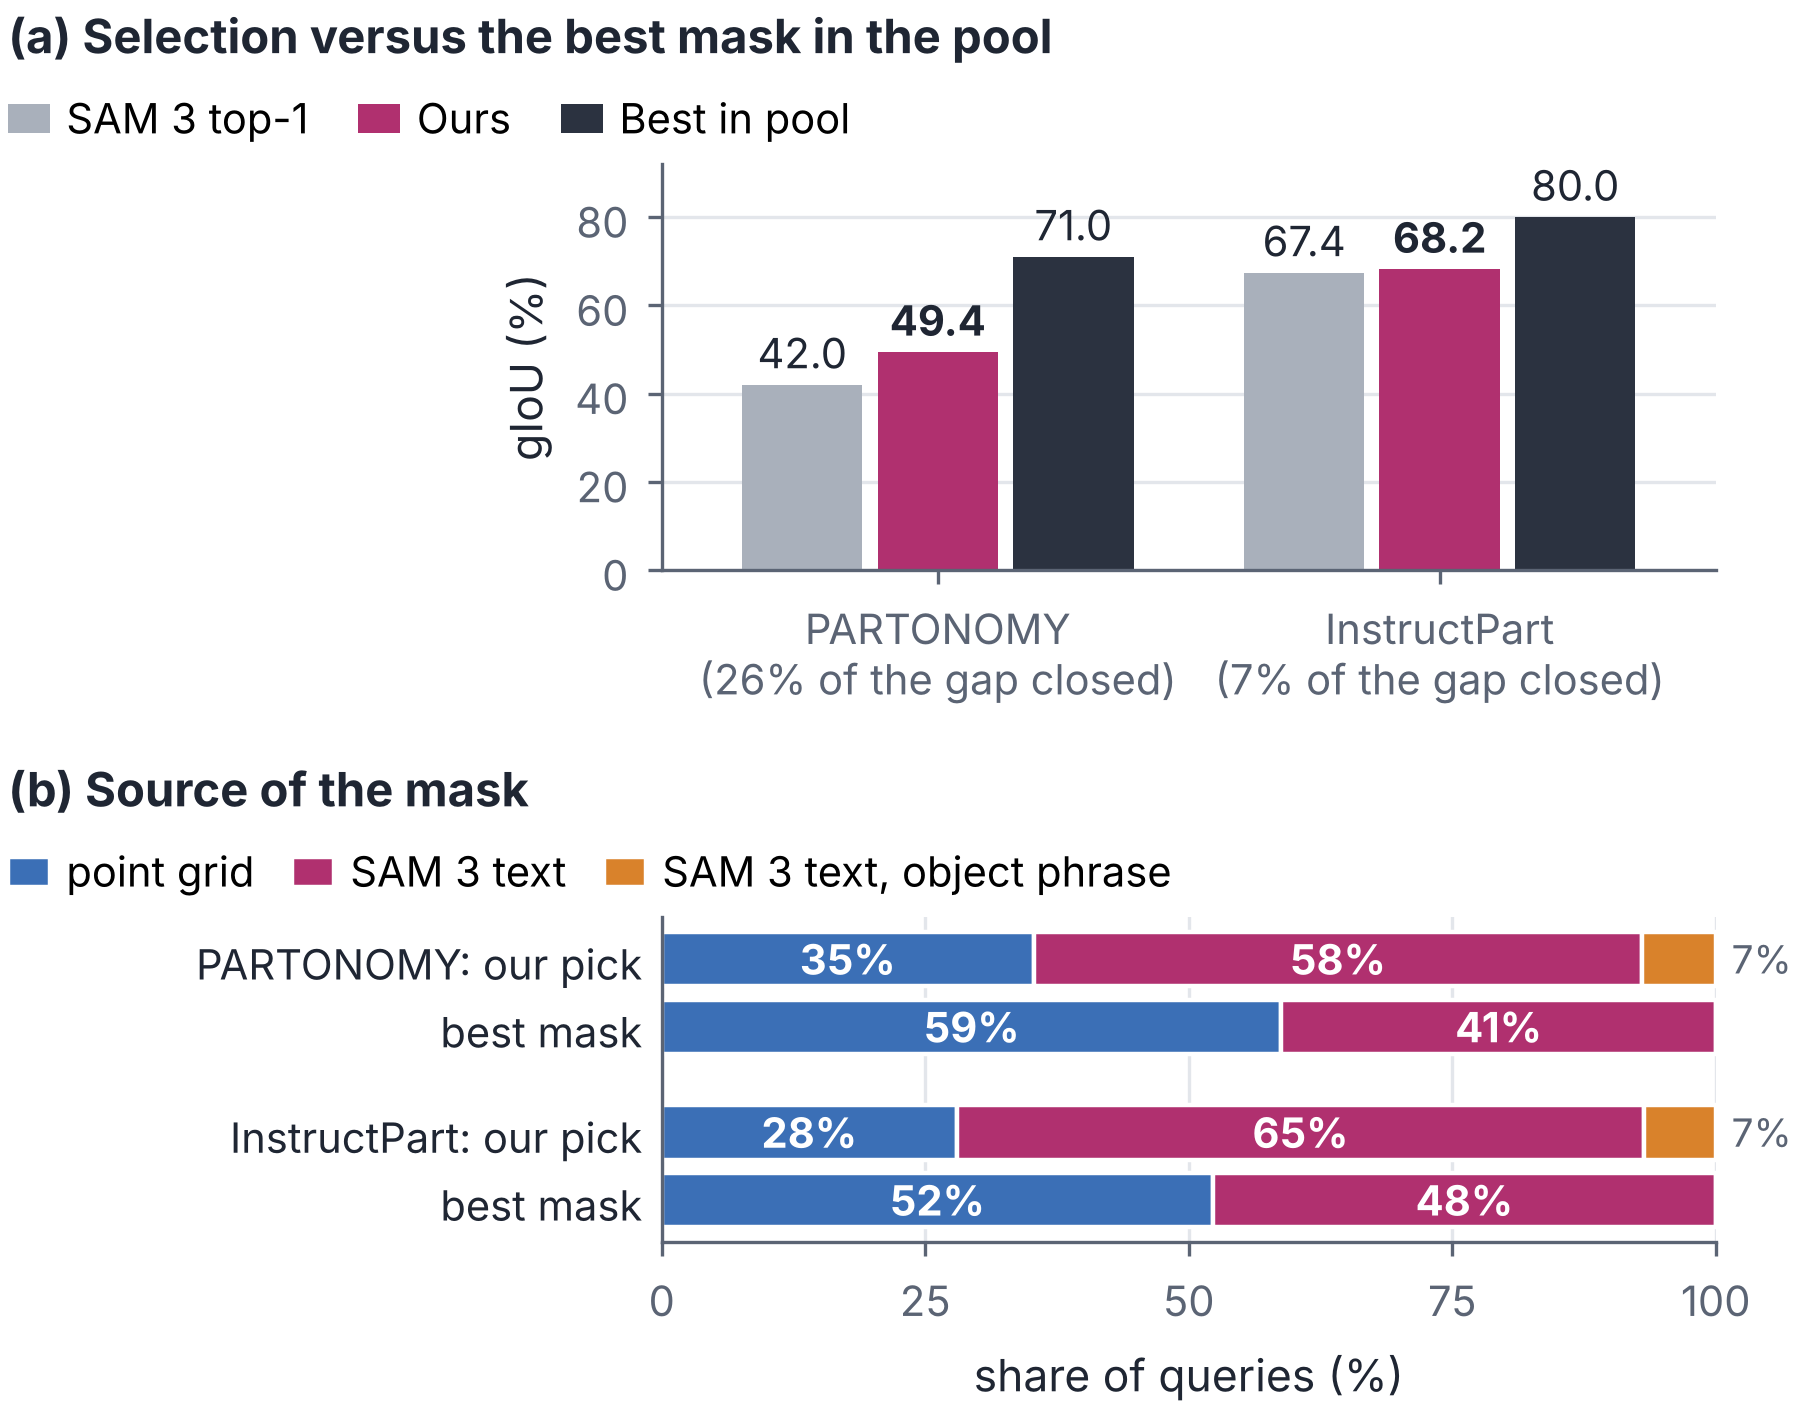
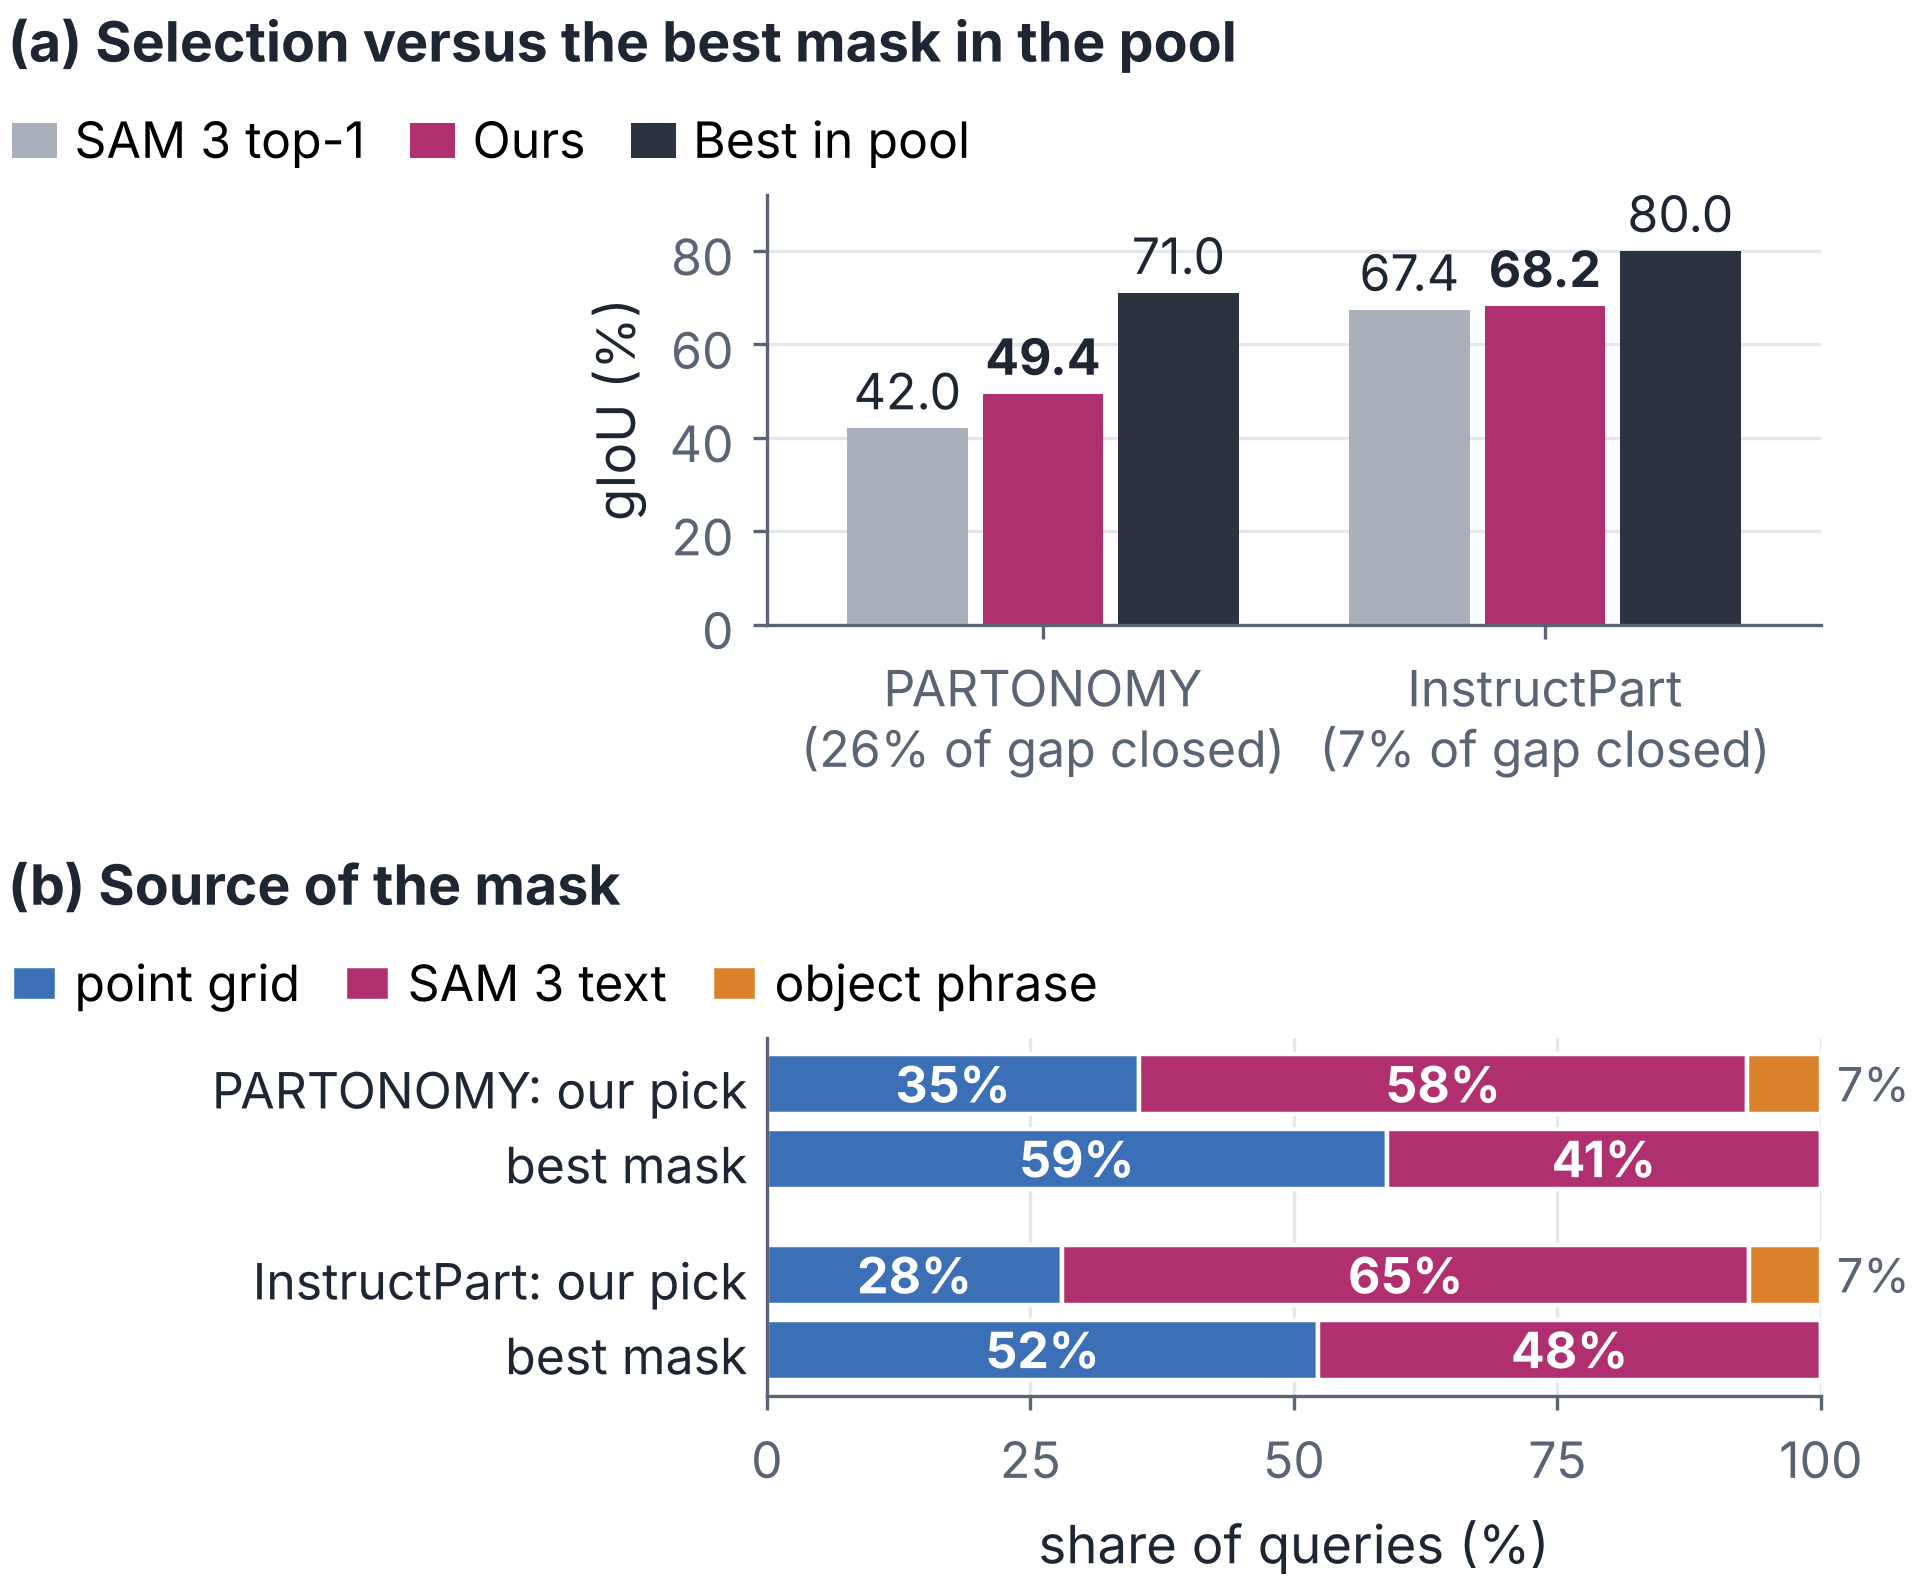
Coverage figure: larger type
Claude-Session: https://claude.ai/code/session_01YaCuPt7rFYHrZJ7SSkENwZ

diff --git a/paper/figures/make_coverage.py b/paper/figures/make_coverage.py
@@ -16,7 +16,7 @@ from matplotlib import font_manager  # noqa: E402
 HERE = Path(__file__).resolve().parent
 for f in ("Inter-Regular.otf", "Inter-SemiBold.otf", "Inter-Bold.otf"):
     font_manager.fontManager.addfont(f"/usr/share/fonts/opentype/inter/{f}")
-plt.rcParams.update({"font.family": "Inter", "font.size": 8, "axes.linewidth": 0.6, "pdf.fonttype": 42})
+plt.rcParams.update({"font.family": "Inter", "font.size": 9.5, "axes.linewidth": 0.6, "pdf.fonttype": 42})
 
 INK, MUTED, GRID = "#1f2633", "#5b6474", "#e3e6eb"
 GREY, PINK, BLUE, ORANGE, DARK = "#a9b0bb", "#b0306f", "#3b6fb6", "#d9822b", "#2b3240"
@@ -32,52 +32,52 @@ def style(ax):
         ax.spines[s].set_visible(False)
     ax.spines["left"].set_color(MUTED)
     ax.spines["bottom"].set_color(MUTED)
-    ax.tick_params(colors=MUTED, length=2.5, width=0.6, labelsize=7.5)
+    ax.tick_params(colors=MUTED, length=2.5, width=0.6, labelsize=9)
     ax.yaxis.grid(True, color=GRID, linewidth=0.6)
     ax.set_axisbelow(True)
 
 
 def main() -> None:
-    fig, (a, b) = plt.subplots(2, 1, figsize=(3.4, 3.5), gridspec_kw={"height_ratios": [1.25, 1], "hspace": 0.95})
+    fig, (a, b) = plt.subplots(2, 1, figsize=(3.4, 3.9), gridspec_kw={"height_ratios": [1.2, 1], "hspace": 1.05})
     # (a) grouped bars
     w = 0.24
     for k, (name, col) in enumerate(zip(GIOU, (GREY, PINK, DARK))):
         xs = [i + (k - 1) * (w + 0.03) for i in range(2)]
         bars = a.bar(xs, GIOU[name], w, color=col, label=name, linewidth=0)
         for r, v in zip(bars, GIOU[name]):
-            a.text(r.get_x() + r.get_width() / 2, v + 1.5, f"{v:.1f}", ha="center", va="bottom", fontsize=7.5,
+            a.text(r.get_x() + r.get_width() / 2, v + 1.5, f"{v:.1f}", ha="center", va="bottom", fontsize=9,
                    color=INK, fontweight="bold" if name == "Ours" else "normal")
-    a.set_xticks(range(2), [f"{n}\n({g}% of the gap closed)" for n, g in zip(BENCH, GAP)])
+    a.set_xticks(range(2), [f"{n}\n({g}% of gap closed)" for n, g in zip(BENCH, GAP)])
     a.set_xlim(-0.55, 1.55)
     a.set_ylim(0, 92)
     a.set_yticks(range(0, 81, 20))
     a.set_ylabel("gIoU (%)", color=INK)
-    a.set_title("(a) Selection versus the best mask in the pool", fontsize=8.5, fontweight="bold", color=INK, loc="left",
-                pad=20, x=-0.62)
-    a.legend(ncol=3, frameon=False, fontsize=7.5, loc="lower left", bbox_to_anchor=(-0.64, 1.0), handlelength=1.0,
-             handletextpad=0.4, columnspacing=1.2, borderpad=0)
+    a.set_title("(a) Selection versus the best mask in the pool", fontsize=10, fontweight="bold", color=INK, loc="left",
+                pad=24, x=-0.72)
+    a.legend(ncol=3, frameon=False, fontsize=9, loc="lower left", bbox_to_anchor=(-0.74, 1.0), handlelength=0.9,
+             handletextpad=0.35, columnspacing=0.9, borderpad=0)
     style(a)
     # (b) horizontal stacked bars, shares of the queries
     rows = [("PARTONOMY: our pick", PICK[0]), ("best mask", BEST[0] + (0,)),
             ("InstructPart: our pick", PICK[1]), ("best mask", BEST[1] + (0,))]
     ys = [3.5, 2.6, 1.2, 0.3]
     left = [0.0] * 4
-    for k, (name, col) in enumerate((("point grid", BLUE), ("SAM 3 text", PINK), ("SAM 3 text, object phrase", ORANGE))):
+    for k, (name, col) in enumerate((("point grid", BLUE), ("SAM 3 text", PINK), ("object phrase", ORANGE))):
         vals = [r[1][k] for r in rows]
         b.barh(ys, vals, 0.72, left=left, color=col, label=name, linewidth=0.8, edgecolor="#fff")
         for y, v, lf in zip(ys, vals, left):
             if v >= 12:
-                b.text(lf + v / 2, y, f"{v:.0f}%", ha="center", va="center", fontsize=7.5, color="#fff", fontweight="bold")
+                b.text(lf + v / 2, y, f"{v:.0f}%", ha="center", va="center", fontsize=9, color="#fff", fontweight="bold")
             elif v > 0:
-                b.text(101.5, y, f"{v:.0f}%", ha="left", va="center", fontsize=7, color=MUTED)
+                b.text(101.5, y, f"{v:.0f}%", ha="left", va="center", fontsize=8.5, color=MUTED)
         left = [lf + v for lf, v in zip(left, vals)]
     b.set_yticks(ys, [r[0] for r in rows])
     b.set_xlim(0, 100)
     b.set_xticks(range(0, 101, 25))
     b.set_xlabel("share of queries (%)", color=INK)
-    b.set_title("(b) Source of the mask", fontsize=8.5, fontweight="bold", color=INK, loc="left", pad=20, x=-0.62)
-    b.legend(ncol=3, frameon=False, fontsize=7.5, loc="lower left", bbox_to_anchor=(-0.64, 1.0), handlelength=1.0,
-             handletextpad=0.4, columnspacing=0.9, borderpad=0)
+    b.set_title("(b) Source of the mask", fontsize=10, fontweight="bold", color=INK, loc="left", pad=24, x=-0.72)
+    b.legend(ncol=3, frameon=False, fontsize=9, loc="lower left", bbox_to_anchor=(-0.74, 1.0), handlelength=0.9,
+             handletextpad=0.35, columnspacing=0.9, borderpad=0)
     style(b)
     b.yaxis.grid(False)
     b.xaxis.grid(True, color=GRID, linewidth=0.6)
